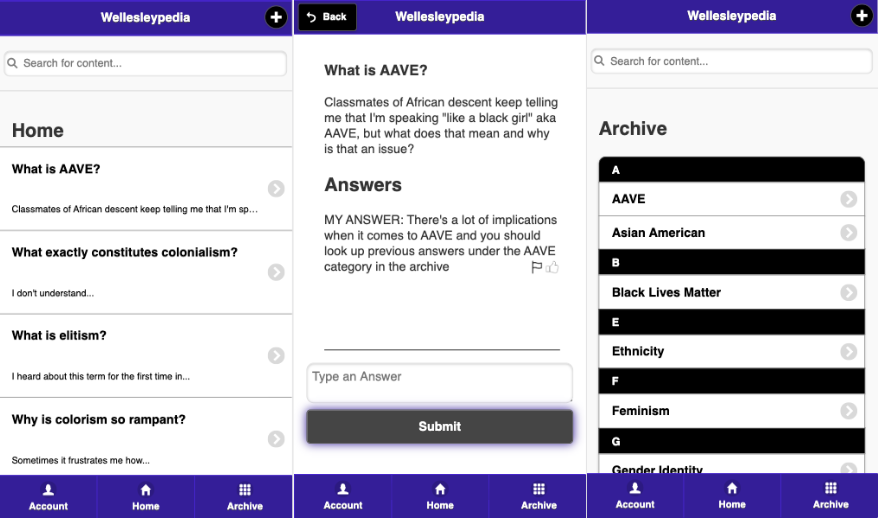
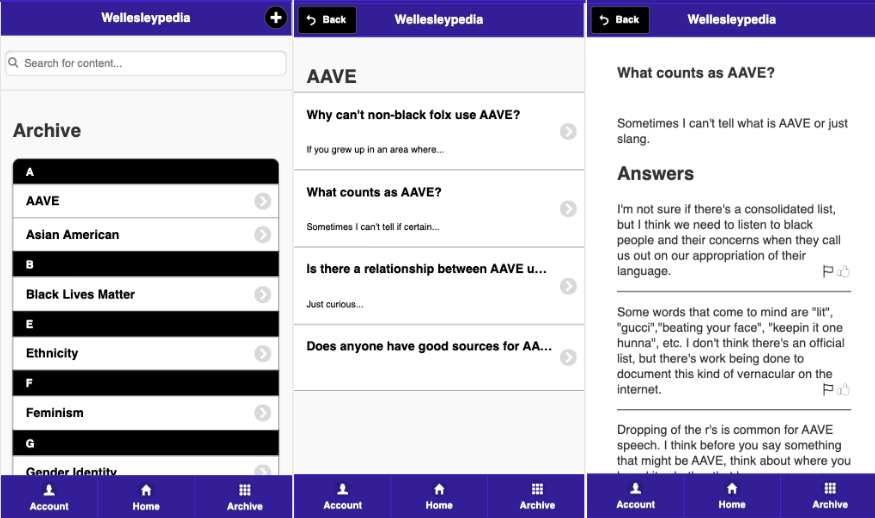
portfolio 4 done

diff --git a/portfolio4.html b/portfolio4.html
@@ -67,59 +67,59 @@
 			<div class="row top-line animate-box">
 				<div class="col-md-8 text-left intro">
 					<h2>Wellesleypedia</h2>
-					<span class="fh5co-highlight" style="color:#303538">UI/UX design and research</span>
-					<p>Summer 2018, Berkman Klein Center for Internet &amp; Society</p>
-					<p>I was inspired to create this project after amassing a collection of voicemails, interview audio and random recordings of people near and dear to my heart, from around the world. Using Max software, I rigged an Arduino with motion-detecting sensors to four standing speakers, with various triggers depending on user proximity to one or more speakers.</p>
+					<span class="fh5co-highlight" style="color:#303538">Crowd-sourced social and political justice encyclopedia forum</span>
+					<p>Spring 2017, Human-Computer Interaction (HCI)</p>
+					<p>Wellesleypedia is a crowd-sourced, moderated base for social and political language and context, geared towards the Wellesley College campus. This HCI project with classmates Jee Lee and Havannah Tran stemmed out of my idea from the Spring 2017 Wellesley WHACK hackathon, where, with a different team, I created an anonymous chat forum for political debate and education.</p>
+
+					<p>We noted that there are often social and political justice conversations happening on campus, but that many students struggle with having the knowledge or terminology to participate. Wellesleypedia's aim is to provide a collective, collaborative platform for Wellesley College students to share and proliferate information, without those asking questions feeling attacked for being ignorant, and without those answering questions feeling like they're expending unnecessary emotional labor.</p>
 
 					<div class="role">
 						<h3>Technology used</h3>
 						<ul>
-							<li>JQuery</li>
+							<li>JavaScript</li>
 							<li>HTML/CSS</li>
-							<li>PHP</li>
-							<li>Heroku</li>
 						</ul>
 					</div>
+					<p><a href="https://devpost.com/software/wellesleypedia" preconnect="auto" class="btn btn-primary btn-outline" target="_blank">Visit Devpost</a></p>
 				</div>
 				
 			</div>
 			<div class="row">
 				<div class="col-md-8 col-md-offset-2">
-					<p class="animate-box"><img src="images/portrade/portrade.png" class="img-responsive" alt="screenshot of home screens of portrade app"></p>
-					<p><img src="images/portrade/portrade1.png" class="img-responsive" alt="screenshot of portrade app functionalities"></p>
-					<div class="testimony animate-box">
-					<p>Immersion into a whole world of conversations. Step between the four speakers, walk around, wave your hands at them - the possibilities are endless. You might hear two speakers arguing with each other over the correct pronunciation of "garage." You might hear a speaker frantically shout in Shanghainese over the noise of a busy subway station. If you lean in carefully, you might even hear a 90-year-old woman recollect how she first met her husband, drunk at a UCLA party, 72 years ago.</p>
-					<div class="text-center animate-box">
-				
-					
-
-				<p><img src="images/portrade/use_sketch.png" class="img-responsive" alt="use sketch of app and studies" style="display: block;margin-left: auto;margin-right: auto;width:50%"></p>	<br>
-				<a href="https://drive.google.com/file/d/1bPgfuvMMheKg-oRXk7DSl3HrU57uX16l/view?usp=sharing" class="btn btn-primary btn-outline" target="_blank">Research Abstract</a>
-				</div>
-
-				</div>
-				
+					<p class="animate-box"><img src="images/wellesleypedia/app1.png" class="img-responsive" alt="screenshot of main screens of wellesleypedia app"></p>
+					<p><img src="images/wellesleypedia/app2.png" class="img-responsive" alt="screenshot of wellesleypedia AAVE archive"></p>
 			</div>
 				<div class="col-md-8 col-md-offset-2 animate-box">
-					<h3> Phase 1 </h3>
-					<p>Immersion into a whole world of conversations. Step between the four speakers, walk around, wave your hands at them - the possibilities are endless. You might hear two speakers arguing with each other over the correct pronunciation of "garage." You might hear a speaker frantically shout in Shanghainese over the noise of a busy subway station.</p>
-					<p class="animate-box"><img src="images/portrade/phase1.png" class="img-responsive" alt="phase 1 of user studies on WhatsApp"></p><br>
-				
-			</div>
-
-			<div class="col-md-8 col-md-offset-2 animate-box">
-				<h3> Phase 2 </h3>
-					<p>Use the images below to play three audio clips from my exhibit. Either play them separately or overlapping to mimic the experience of the in-person display (recommended: click and play all three at once to start).</p>
-					<p class="animate-box"><img src="images/portrade/phase2.png" class="img-responsive" alt="phase 2 of user studies on WhatsApp"></p><br>
+				<br>
+					<p>Wellesleypedia was created as an open forum for diverse opinions on a range of political and social justice topics. There is a current question-answer feed as well as an archive with verified past questions and answers. Users must register with a Wellesley College email address and B-number, but remain anonymous in the forum. Users can upvote or report answers in addition to asking and answering.</p>
+					
+					<div class="column">
+					<a><img src="images/wellesleypedia/Grace.png" class="img-responsive" alt="persona 4: grace"></a>
 					</div>
-			<div class="col-md-8 col-md-offset-2 animate-box">
-				<h3> Phase 3 </h3>
-					<p>Use the images below to play three audio clips from my exhibit. Either play them separately or overlapping to mimic the experience of the in-person display (recommended: click and play all three at once to start).</p>
-			
-			<p class="animate-box"><img src="images/portrade/portrade2.png" class="img-responsive" alt="phase 2 of user studies on WhatsApp"></p>
+					<div class="column">
+					<a><img src="images/wellesleypedia/task3.png" class="img-responsive" alt="user task diagram"></a>
 					</div>
 
-				</div>
+
+					</div>
+
+
+					<div class="col-md-8 col-md-offset-2">
+					<div class="row animate-box">
+
+					<p>We developed Wellesleypedia through iterative design sketches, storyboarding, task diagrams, personas, paper prototype implementations and web app prototyping. We made sure that our process was user-centric, involving user testing and feedback at all stages.</p><br>
+
+					<p class="animate-box"><img src="images/wellesleypedia/proto1.png" class="img-responsive" alt="prototyping of wellesleypedia app"></p>
+					</div>
+					<p class="animate-box"><img src="images/wellesleypedia/proto2.png" class="img-responsive" alt="prototyping 2 of wellesleypedia app"></p>
+					</div>
+
+					</div>
+
+					
+
+
+
 
 				
 				<div class="col-md-8 col-md-offset-2">

diff --git a/portfolio3.html b/portfolio3.html
@@ -67,7 +67,7 @@
 			<div class="row top-line animate-box">
 				<div class="col-md-8 text-left intro">
 					<h2>Multimodal Interaction</h2>
-					<span class="fh5co-highlight" style="color:#303538">User safety HCI research with vibrotactile and auditory alerts</span>
+					<span class="fh5co-highlight" style="color:#303538">User safety alerts</span>
 					<p>Summer 2017, NSF-Funded HCI Research</p>
 					<p>I was inspired to create this project after amassing a collection of voicemails, interview audio and random recordings of people near and dear to my heart, from around the world. Using Max software, I rigged an Arduino with motion-detecting sensors to four standing speakers, with various triggers depending on user proximity to one or more speakers.</p>
 					
